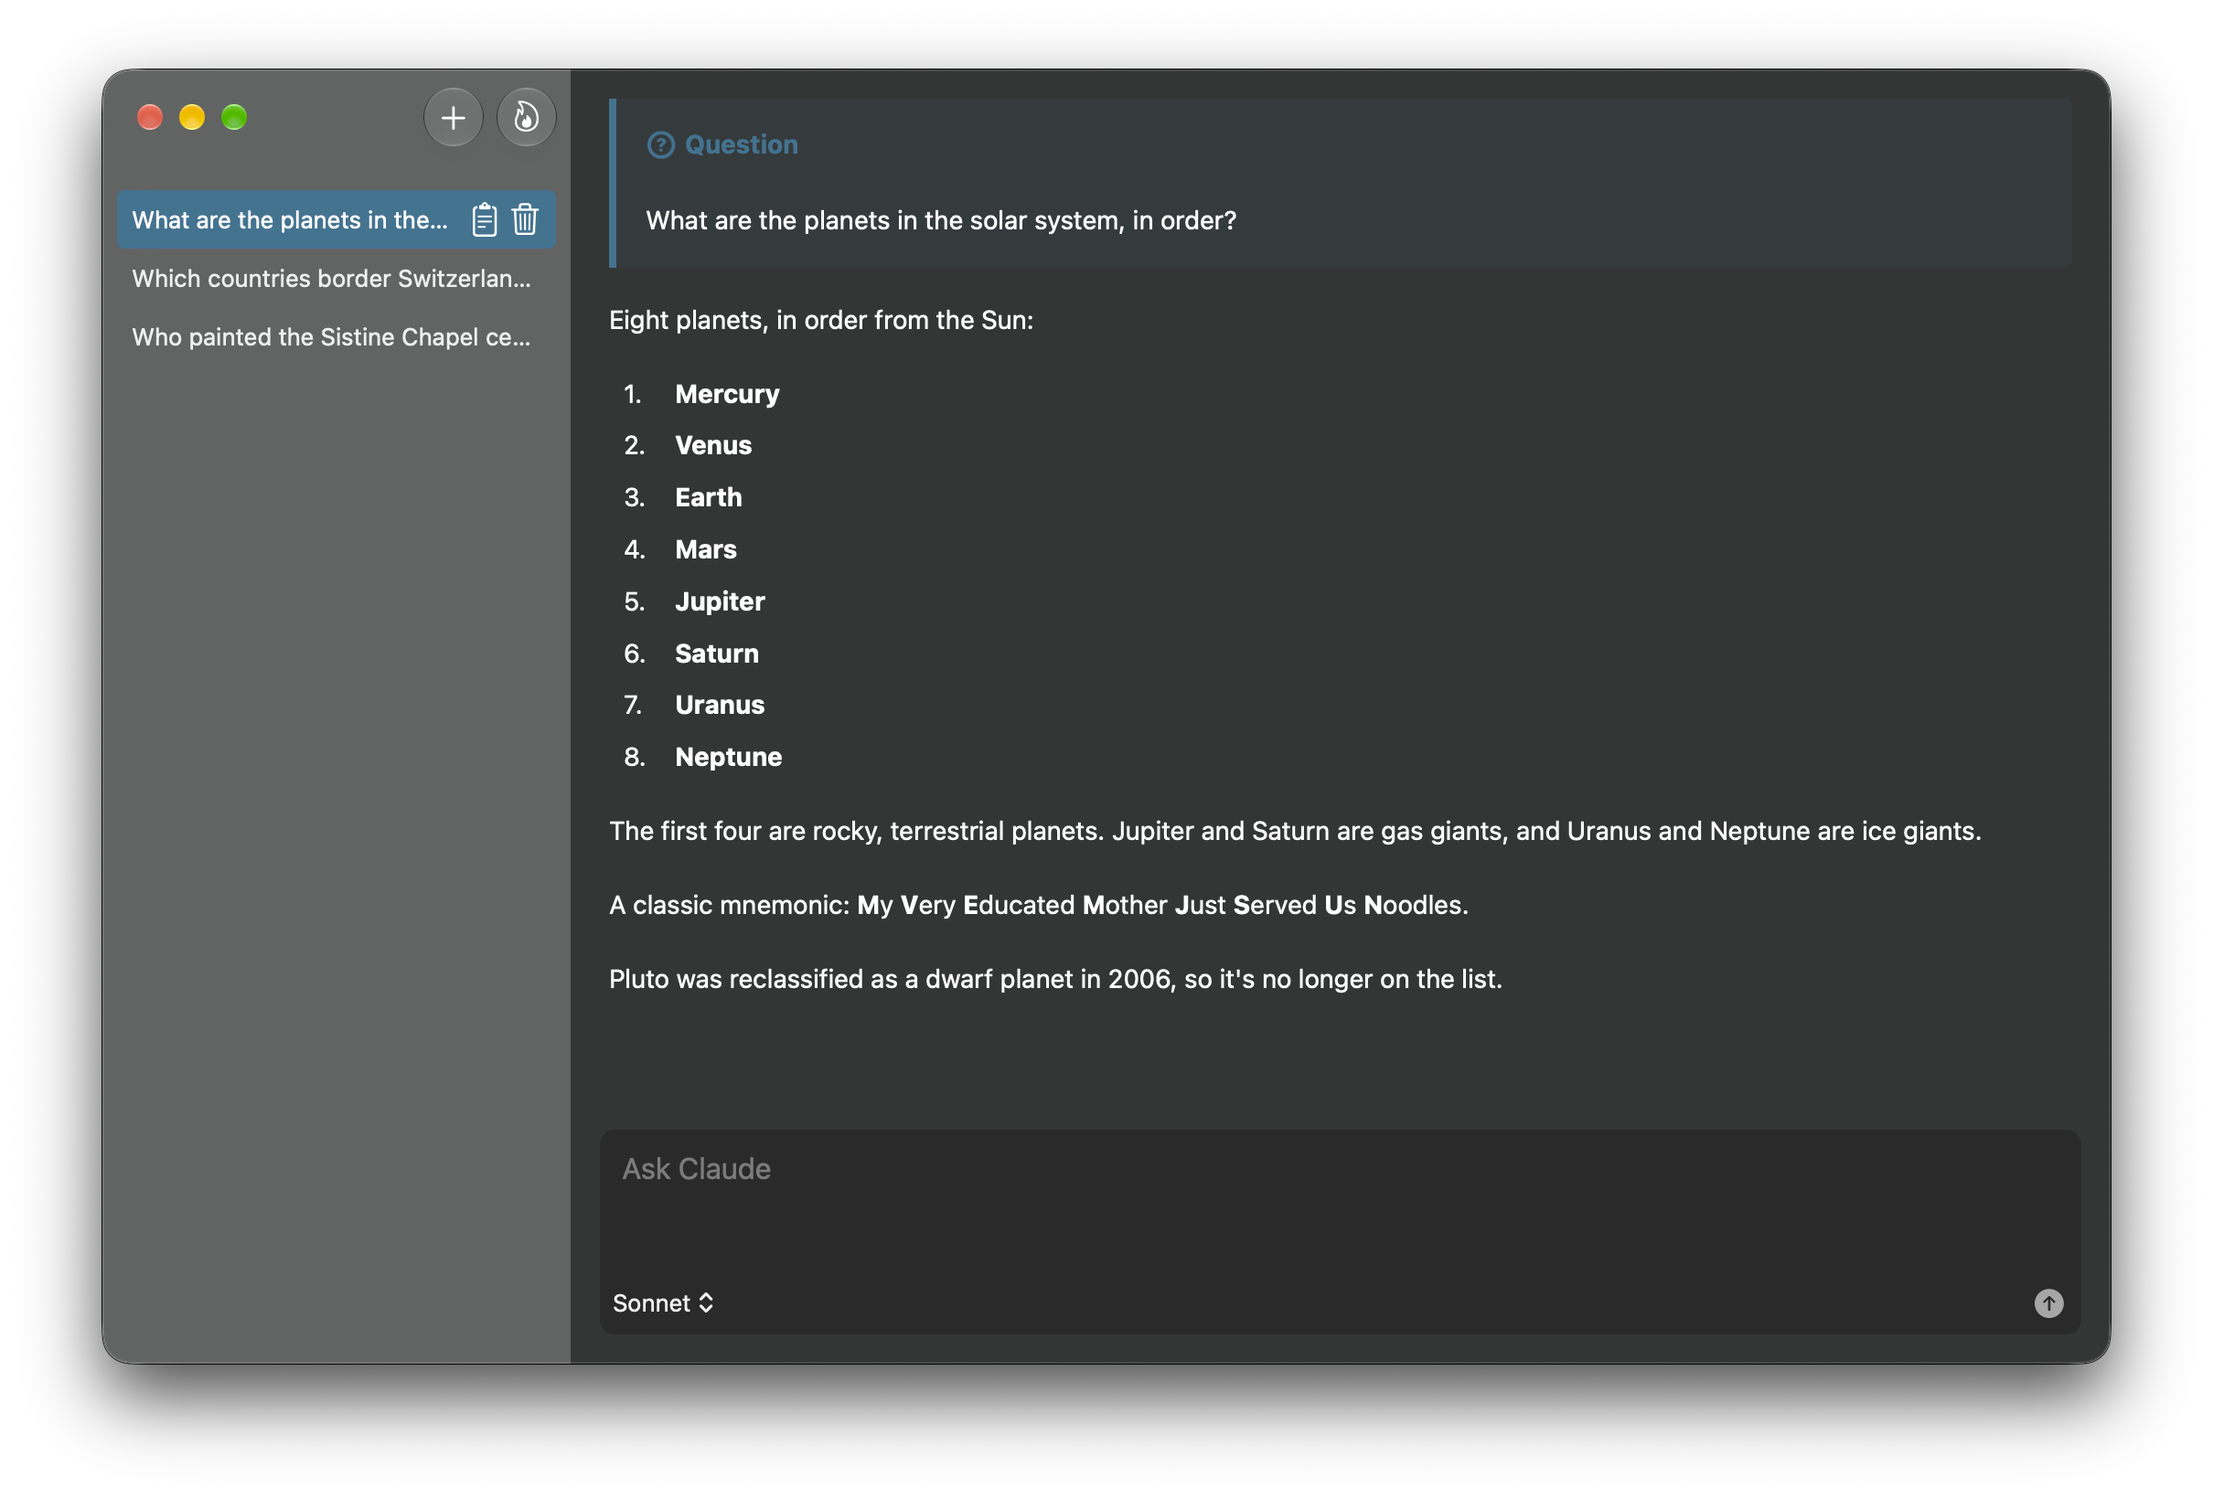
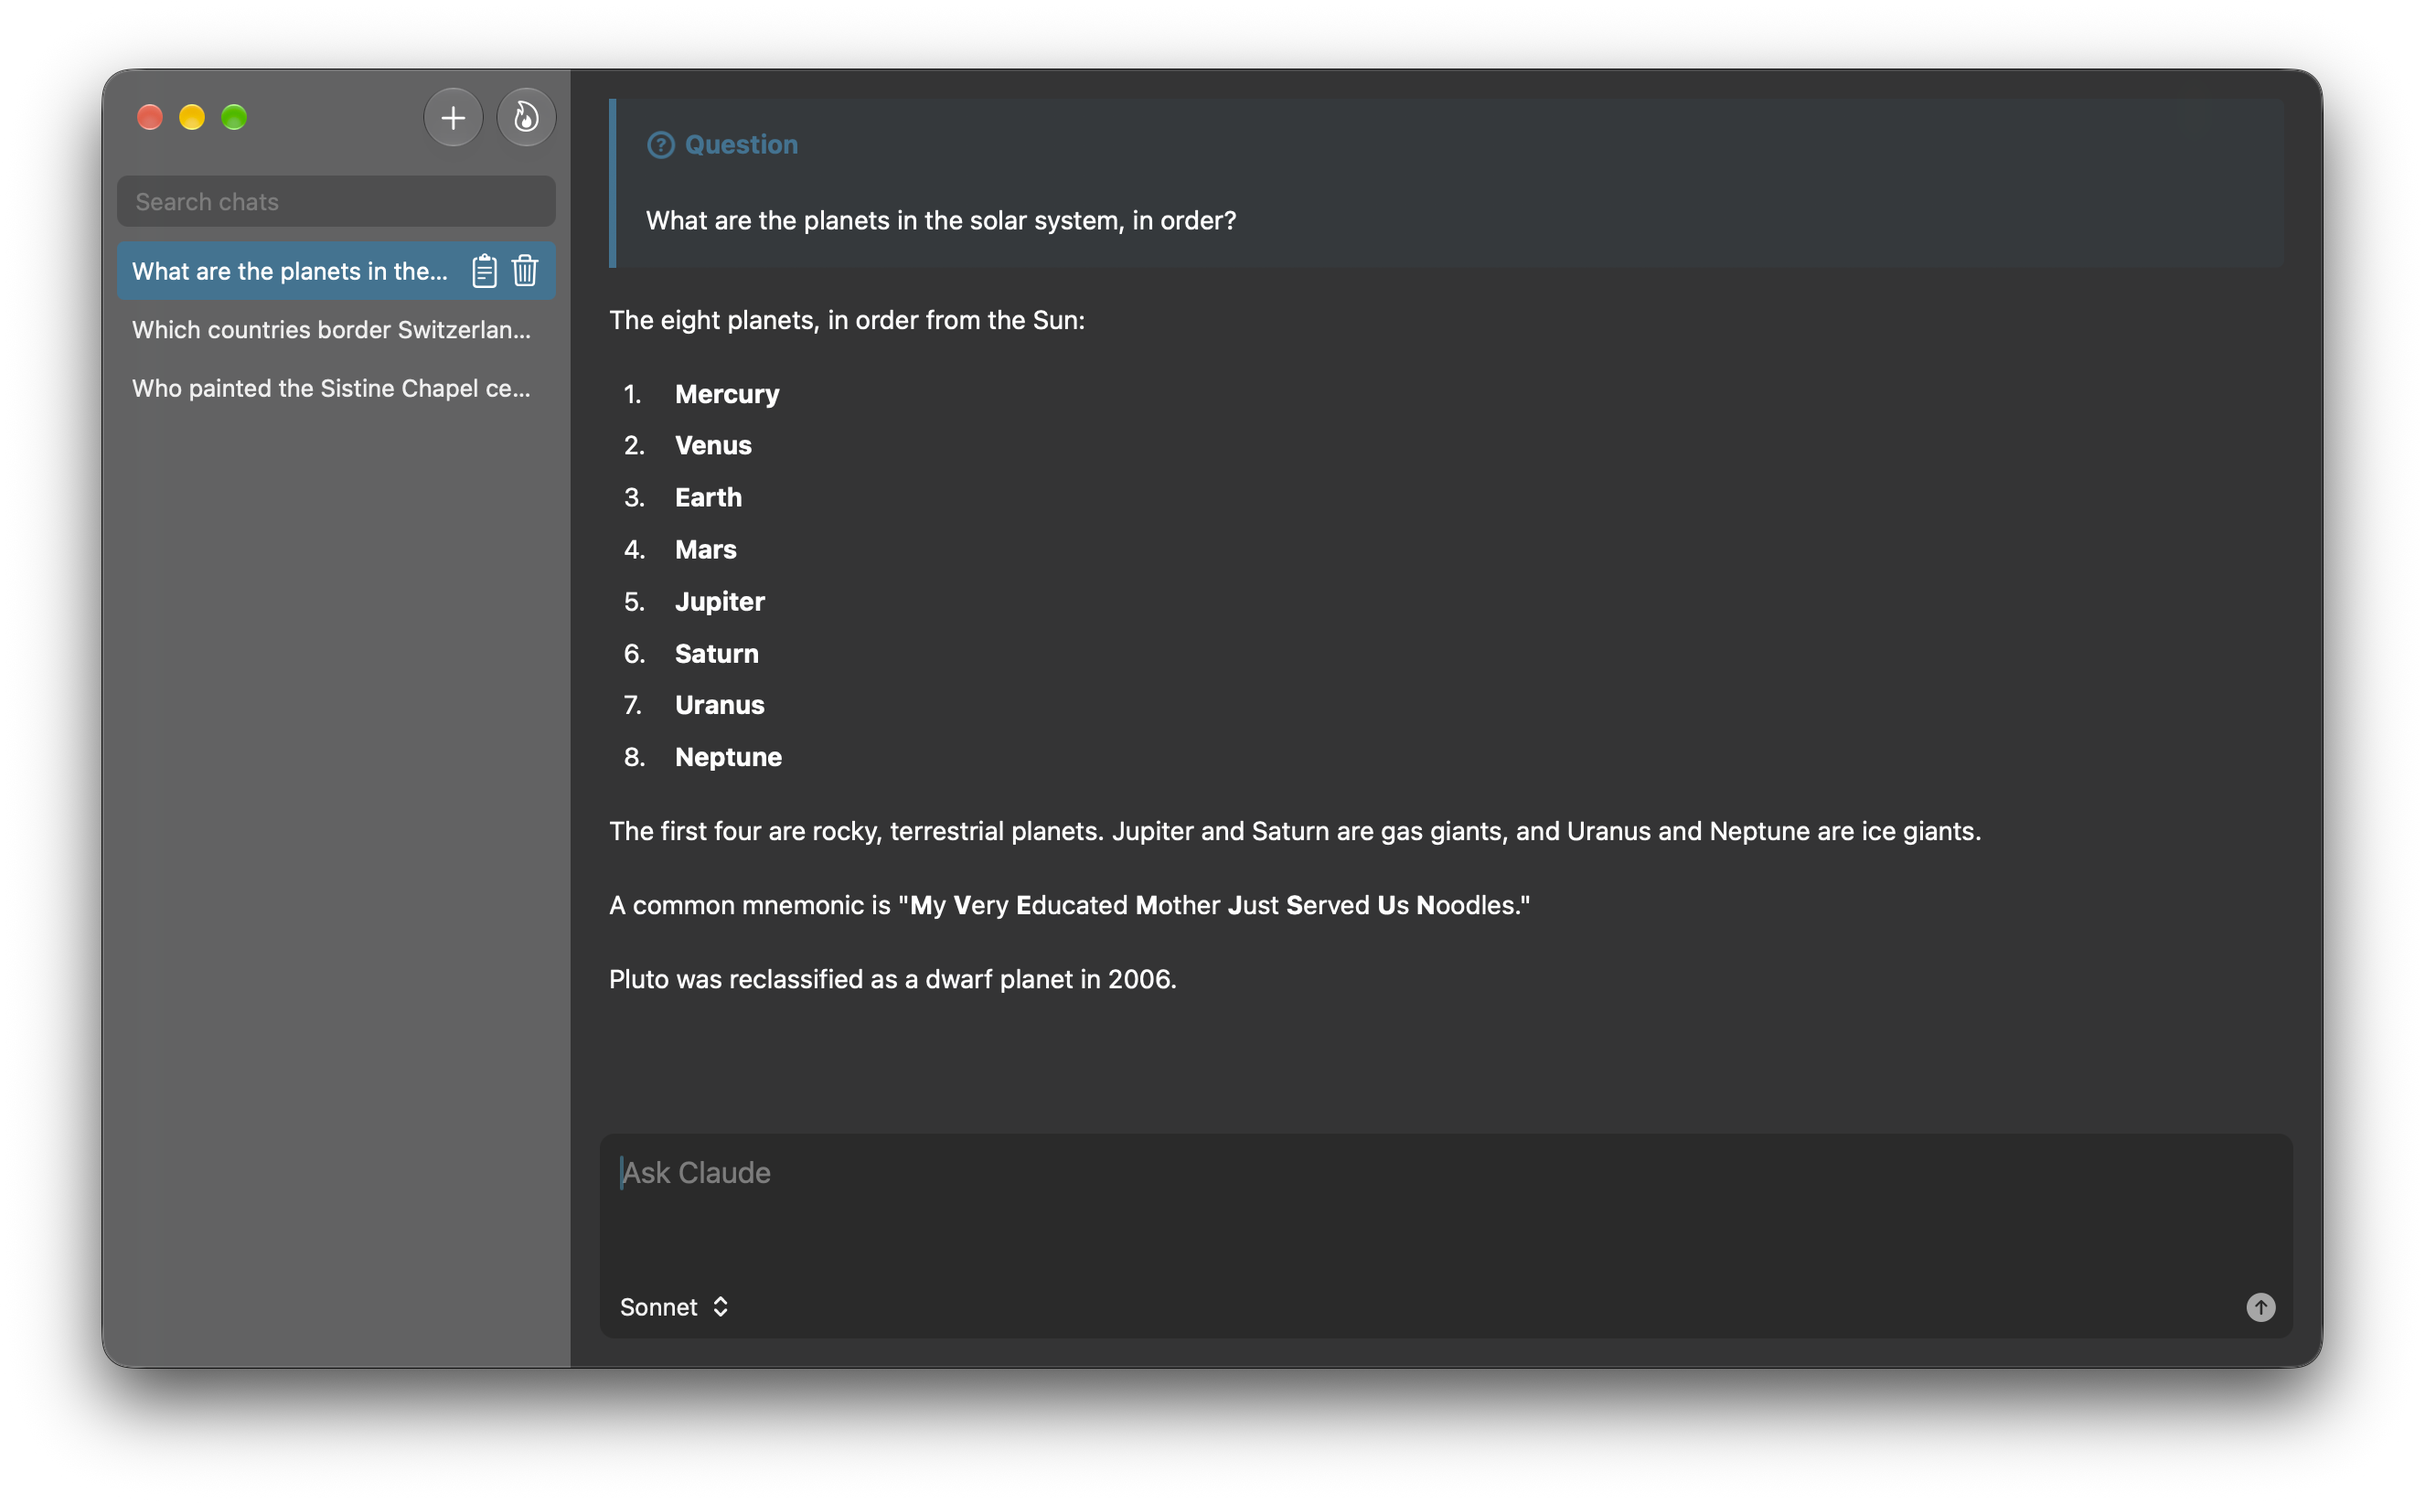
Add chat search, right-click menu, keyboard navigation and status text
Bump version to 1.1

Changed region(s): [[0.031, 0.0311, 0.8988, 0.9329], [0.9298, 0.0311, 0.9607, 0.9018], [0.5888, 0.653, 0.6198, 0.6841]]

diff --git a/README.md b/README.md
@@ -4,7 +4,7 @@ Chat with Claude from Alfred, using your Claude plan or an API key
 
 [⤓ Download the latest release](../../releases/latest)
 
-Claude Chat is a chat window for [Alfred](https://www.alfredapp.com) that talks to Claude through [Claude Code](https://claude.com/claude-code) running on your Mac. It is based on [Brain Outsourcing](https://github.com/alfredapp/brain-outsourcing-workflow) by the Alfred team, with the engine swapped from an HTTP API call to Claude Code's headless mode.
+Claude Chat is a chat window for [Alfred](https://www.alfredapp.com) that communicates with Claude via [Claude Code](https://claude.com/claude-code) running on your Mac. It is based on [Brain Outsourcing](https://github.com/alfredapp/brain-outsourcing-workflow) by the Alfred team, with the engine switched from an HTTP API call to Claude Code's headless mode.
 
 ## Requirements
 
@@ -15,7 +15,7 @@ The workflow never downloads or installs anything. It runs the copy of Claude Co
 
 ## Setup
 
-1. Install Claude Code, run `claude` once in Terminal and log in with your Claude account.
+1. Install Claude Code, then run `claude` once in Terminal and log in with your Claude account.
 2. Download the workflow from the [releases page](../../releases/latest) and double-click it to install.
 
 That is all most people need. The rest is optional and lives in the [Workflow’s Configuration](https://www.alfredapp.com/help/workflows/user-configuration/).
@@ -38,9 +38,9 @@ If it still can't find Claude Code, run `which claude` in Terminal and paste the
 
 ### Claude plan or API key
 
-By default messages count against the usage limits of the Claude plan you're logged in to, the same as using Claude Code in Terminal. Any `ANTHROPIC_API_KEY` already set in your environment is ignored, so the workflow can't switch you to paid API use by accident.
+By default, messages count against the usage limits of the Claude plan you're logged in to, just like using Claude Code in Terminal. Any `ANTHROPIC_API_KEY` already set in your environment is ignored, so the workflow can't accidentally switch you to paid API use.
 
-To pay per use instead, paste a key into `API Key`. Claude Code still needs to be installed, but you don't need to log in. The key is stored in the workflow's configuration and is left out when you export the workflow.
+To pay per use instead, paste a key into `API Key`. Claude Code still needs to be installed, but you don't need to log in. The key is stored in the workflow's configuration and is omitted when you export the workflow.
 
 ## Usage
 
@@ -49,17 +49,24 @@ Open the chat window with the `claude` keyword, or set a [Hotkey](https://www.al
 ![The Claude Chat window, with the chat list on the left and a conversation on the right](Workflow/images/about/chatui.png)
 
 * <kbd>↩</kbd> sends your message. While Claude is answering, the send button becomes a stop button.
-* <kbd>⌘</kbd><kbd>N</kbd> starts a new chat.
-* <kbd>⌘</kbd><kbd>⇧</kbd><kbd>⌫</kbd> deletes all chats. They go to the Trash.
-* Each chat in the sidebar has buttons to copy the last message and to delete the chat.
+* The search box above the chat list filters chats as you type.
+* Each chat in the sidebar has buttons to copy the last message and to delete the chat. Right-click a chat for the same actions.
 * The model dropdown in the chat window switches model. You can change it between messages in the same chat.
+
+| Shortcut | Action |
+| -------- | ------ |
+| <kbd>⌘</kbd><kbd>N</kbd> | New chat |
+| <kbd>⌘</kbd><kbd>F</kbd> | Search chats |
+| <kbd>⌘</kbd><kbd>]</kbd> or <kbd>⌥</kbd><kbd>⌘</kbd><kbd>↓</kbd> | Next chat |
+| <kbd>⌘</kbd><kbd>[</kbd> or <kbd>⌥</kbd><kbd>⌘</kbd><kbd>↑</kbd> | Previous chat |
+| <kbd>⌘</kbd><kbd>⇧</kbd><kbd>⌫</kbd> | Delete all chats. They go to the Trash. |
 
 Each chat keeps its own Claude Code session, so follow-up questions see the whole conversation as real turns rather than a pasted transcript.
 
 ## Good to know
 
-* Claude has no tools in this window: no file access, no shell and no web. Your MCP servers are not started.
-* Replies take a second or two longer to start than a direct API call, because Claude Code launches for each message.
+* Claude has no tools in this window: no file access, no shell, and no web. Your MCP servers are not started for these chats.
+* Replies take a second or two longer to start than a direct API call because Claude Code launches for each message. The window shows "Starting Claude…" and then "Thinking…" while you wait.
 * The first time Alfred launches Claude Code, macOS may ask whether it can read the Claude login from your Keychain. Choose Always Allow.
 * Claude Code saves each chat as a session under `~/.claude/projects`. Deleting a chat in the workflow does not delete that session.
 
@@ -75,4 +82,4 @@ cd Workflow && zip -r "../Claude Chat.alfredworkflow" . -x '.*'
 
 Based on [Brain Outsourcing](https://github.com/alfredapp/brain-outsourcing-workflow), copyright Running with Crayons Ltd. Released under the [BSD 3-Clause licence](LICENSE).
 
-This is an independent project. It is not affiliated with or endorsed by Anthropic or Running with Crayons Ltd.
+This is an independent project and is not affiliated with or endorsed by Anthropic or Running with Crayons Ltd.
